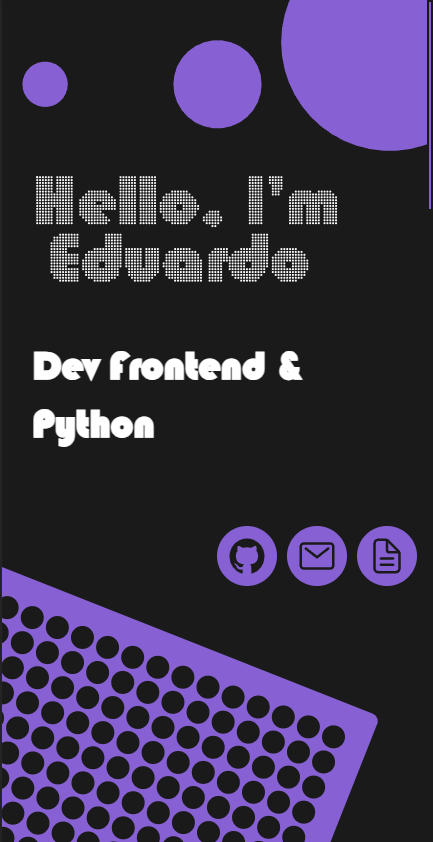
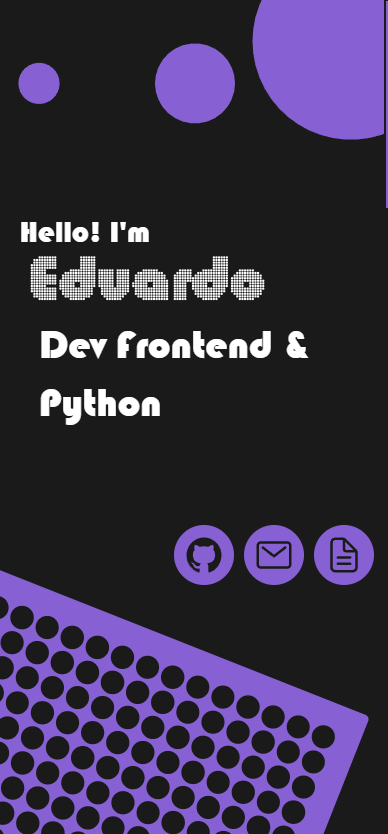
particles

diff --git a/js/titleData.js b/js/titleData.js
@@ -4,14 +4,12 @@ function titleData(){
     const fullData = []
 
     ctx.fillStyle = 'white'
-    ctx.font = '25px bauhau93 ' ;
-    ctx.fillText("Hello, I'm", 0, 20)
-    ctx.font = 'bauhau93 25px';
-    ctx.fillText('Eduardo', 5 ,40)
+    ctx.font = '25px bauhau93';
+    ctx.fillText('Eduardo', 0 ,19)
     // ctx.strokeStyle = 'white'
-    // ctx.strokeRect(0,0, 122, 42)
+    // ctx.strokeRect(0,0, 92, 21)
 
-    const textCoordinates1 = ctx.getImageData(0,0, 106, 40);
+    const textCoordinates1 = ctx.getImageData(0,0, 92, 20);
     
     let title1 = extractData(textCoordinates1)
 
@@ -20,12 +18,11 @@ function titleData(){
     ctx.clearRect(0, 0, canvasName.width, canvasName.height)
 
     ctx.fillStyle = 'white'
-    ctx.font = '27px bauhau93 ' ;
-    ctx.fillText("Skills", 0, 20)
-    // ctx.strokeStyle = 'white'
-    // ctx.strokeRect(0,0, 56, 22)
+    ctx.font = '31px bauhau93 ' ;
+    ctx.fillText("Skills", 0, 25)
 
-    const textCoordinates2 = ctx.getImageData(0,0, 60, 22);
+
+    const textCoordinates2 = ctx.getImageData(0,0, 70, 32);
     
     let title2 = extractData(textCoordinates2)
 
@@ -36,8 +33,7 @@ function titleData(){
     ctx.fillStyle = 'white'
     ctx.font = '27px bauhau93 ' ;
     ctx.fillText("Works", 0, 20)
-    // ctx.strokeStyle = 'white'
-    // ctx.strokeRect(0,0, 66, 22)
+
 
     const textCoordinates3 = ctx.getImageData(0,0, 72, 22);
     
@@ -48,12 +44,11 @@ function titleData(){
     ctx.clearRect(0, 0, canvasName.width, canvasName.height)
 
     ctx.fillStyle = 'white'
-    ctx.font = '27px bauhau93 ' ;
-    ctx.fillText("About", 0, 20)
-    // ctx.strokeStyle = 'white'
-    // ctx.strokeRect(0,0, 66, 22)
+    ctx.font = '28px bauhau93 ' ;
+    ctx.fillText("About", 0, 22)
 
-    const textCoordinates4 = ctx.getImageData(0,0, 72, 22);
+
+    const textCoordinates4 = ctx.getImageData(0,0, 75, 24);
     
     let title4 = extractData(textCoordinates4)
 
@@ -61,7 +56,9 @@ function titleData(){
 
     fullData.push(title4)
 
+    canvasName.remove()
 
+    console.log(fullData)
     return fullData
 }
 

diff --git a/index.html b/index.html
@@ -9,7 +9,7 @@
     <link rel="stylesheet" href="css/know-page.css">
     <link rel="stylesheet" href="css/works-page.css">
     <link rel="stylesheet" href="css/about-page.css">
-    <link rel="stylesheet" href="css/preload.css">
+    <!-- <link rel="stylesheet" href="css/preload.css"> -->
 
 </head>
 <body>
@@ -34,7 +34,10 @@
 
 
         <section class="page" id="main-page">
-            <h1>Dev Frontend & Python</h1>
+            <div class="main-text">
+                <p class="text-main">Hello! I'm</p>
+                <p class="text-main">Dev Frontend & Python</p>
+            </div>
 
             <div class="link-grade">
                 <a href="https://github.com/imFernandes23" target="_blank" class="link-box">

diff --git a/css/main-page.css b/css/main-page.css
@@ -1,14 +1,28 @@
 
-h1{
-    position: absolute;
-    display: block;
-    font-family: bauhau93;
-    font-size: max(2.7vw, 40px);
+.main-text{
+    display: flex;
+    flex-direction: column;
     color: white;
-    z-index: 1000;
-    top: 45vh;
-    left: 15vw;
+    font-family: Arial, Helvetica, sans-serif;
+    width: 100%;
+    height: fit-content;
+    position: relative;
+    gap: min(16vw, 110px);
+    top:25%;
 }
+
+.text-main:nth-child(1){
+    margin-left: 5%;
+    font-size: max(2vw, 30px);
+    font-family: bauhau93;
+}
+
+.text-main:nth-child(2){
+    margin-left: 10%;
+    font-size: max(3vw, 40px);
+    font-family: bauhau93;
+}
+
 
 .link-grade{
     height: 100px;

diff --git a/js/nameBodys.js b/js/nameBodys.js
@@ -22,7 +22,7 @@ class nameBodys{
         this.page = 0;
         this.number = this.data[0].value
 
-        this.radius = this.margin/3
+        this.radius = this.margin/2.4
         this.vectorOfPos = [];
         this.vectorOfBodys = [];
 
@@ -133,7 +133,7 @@ class nameBodys{
 
         for(let i in this.vectorOfBodys){
             let r = this.vectorOfBodys[i].circleRadius;
-            let r2 = this.margin / 3
+            let r2 = this.margin / 2.4
             let newRadius = r2 / r
             Body.scale(this.vectorOfBodys[i], newRadius, newRadius)
         }

diff --git a/js/Data.js b/js/Data.js
@@ -18,6 +18,6 @@ let Data = [
         title: "Portifólio",
         text: "Made with Matte.js to simulate physics with JavaScript, and Paper.js to create drawings, this page is my personal portfolio, where I intend to add new projects.",
         imgDir: "./image/portifolio.png",
-        href: "#"
+        href: "https://imfernandes23.github.io/Eduardo_Fernandes/"
     },
 ]

diff --git a/js/background.js b/js/background.js
@@ -40,8 +40,8 @@ class Sketch{
         this.height = window.innerHeight;
         this.data = dataName;
         this.arrayOfTitles =  [
-            {x: 0.075, y: 0.2},
-            {x: 0.070, y: 1.85},
+            {x: 0.075, y: 0.30},
+            {x: 0.070, y: 1.825},
             {x: 0.5, y: 2.8},
             {x: 0.03, y: 3.05},
         ]

diff --git a/css/Background.css b/css/Background.css
@@ -30,7 +30,7 @@ body,html{
     position: absolute;
     top: 0;
     left: 0;
-    z-index: 100;
+    z-index: 0;
 }
 
 #paper-background{
@@ -48,7 +48,8 @@ height: 400vh;
 
 #matter-background{
     width: 100vw;
-    height: 400vh;
+    height: 100%;
+    overflow: visible;
     position: absolute;
     top:0;
     left: 0;;
